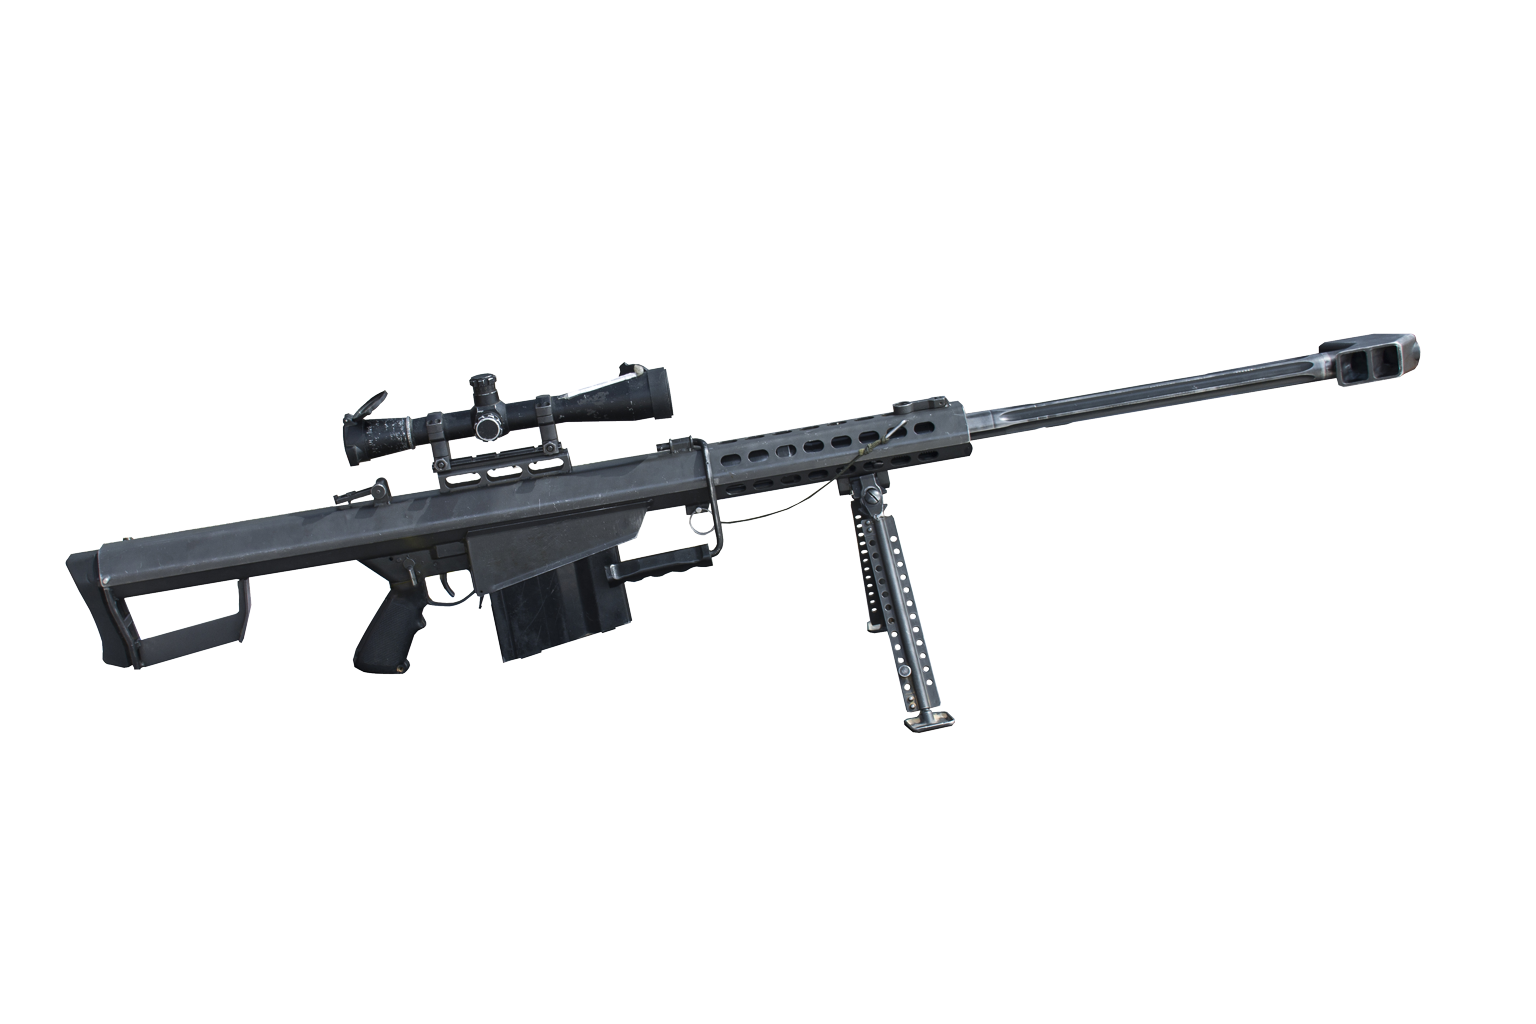
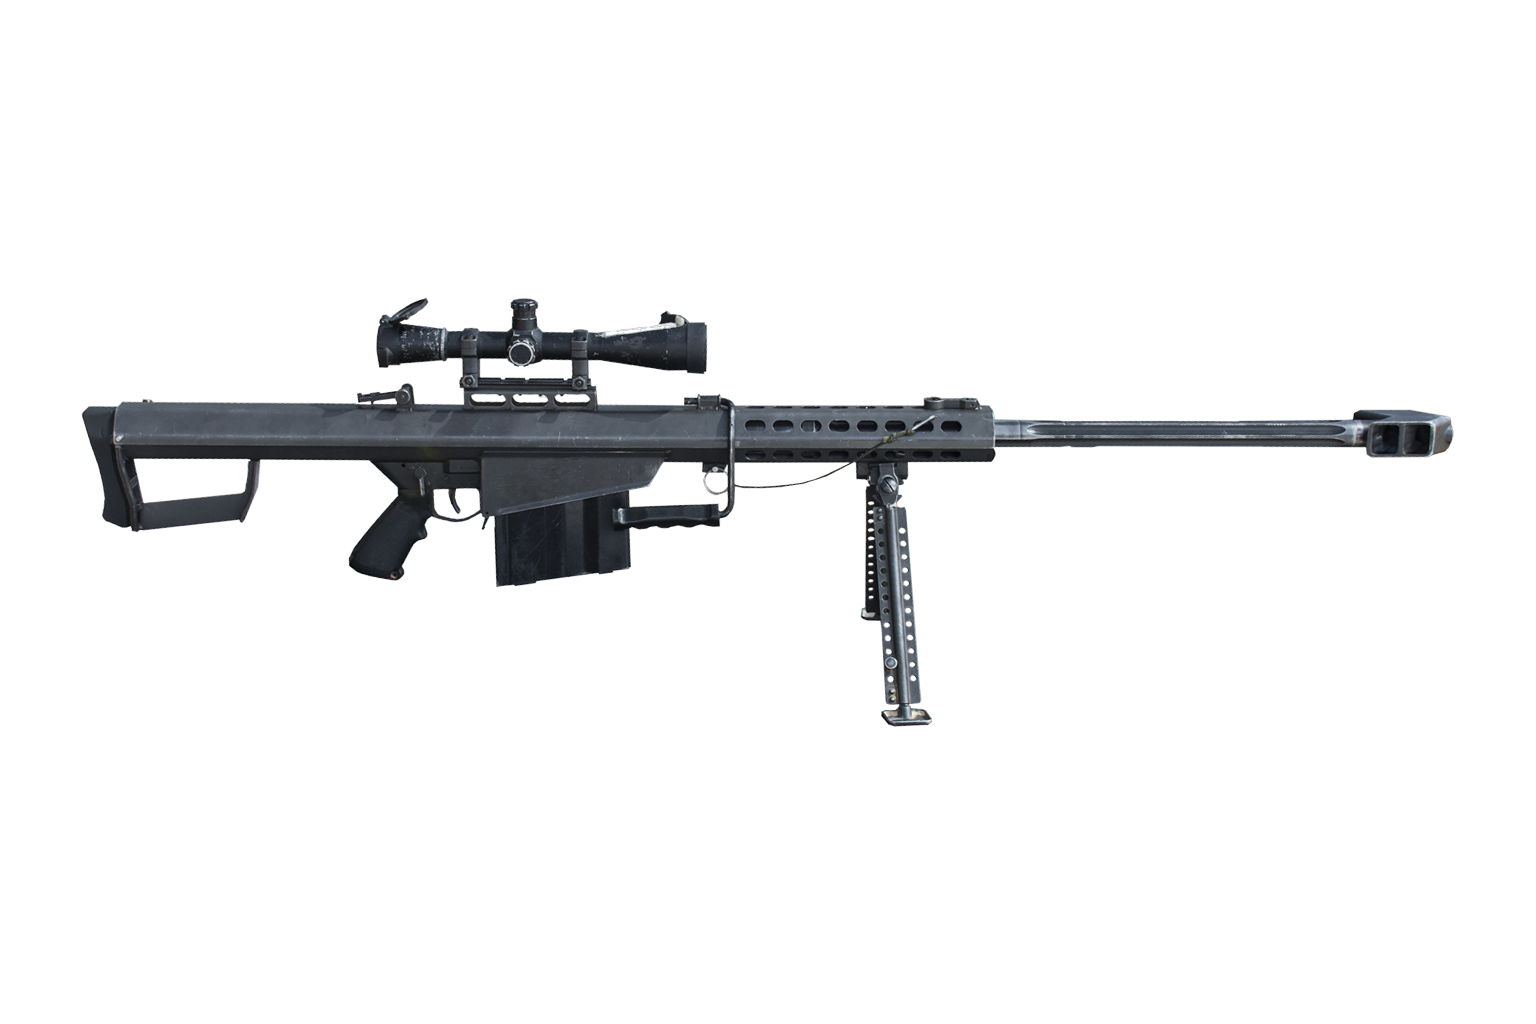
Fit the Vyrr, police and Major Navarro art; credit free-licensed gun photos
- Cloaked hunters stay faintly visible: the cloak photo is already see-through
- M82A1 side photo levelled so it sits flat in the Arsenal and in hand
- Arsenal shows photo credits for the two free-licensed gun photos
- City page keeps the Major's cut-out inside its header

Changed region(s): [[0.0312, 0.2812, 0.9688, 0.7188]]

diff --git a/src/ui/menus.js b/src/ui/menus.js
@@ -10,7 +10,7 @@ import { SPECIES } from '../data/species.js';
 import * as store from '../engine/storage.js';
 import * as audio from '../engine/audio.js';
 import { thumbnail } from '../game/render-scene.js';
-import { weaponProfilePath, cityArt, storyArt, MAJOR as MAJOR_PIX, CITY_SELECT_ART } from '../data/art.js';
+import { weaponProfilePath, cityArt, storyArt, MAJOR as MAJOR_PIX, CITY_SELECT_ART, PHOTO_CREDITS } from '../data/art.js';
 import { CITIES, CITY_LEVELS, CITY_BY_ID, cityLevels, MAJOR } from '../data/cities.js';
 
 function h(tag, attrs = {}, ...kids) {
@@ -280,7 +280,7 @@ export class UI {
     const { lv, done, stars: st } = cityProgress(cityId);
     const next = lv.find((l) => !store.progressOf(l.id).passed && sceneOpen(l));
     const seen = Object.keys(store.uiState()).some((k) => k.startsWith(`story:${cityId}:`));
-    const head = h('div', { class: 'city-head', style: { backgroundImage: [`linear-gradient(90deg, rgba(0,0,0,0.78), rgba(0,0,0,0.15))`, art(cityArt(cityId, 'panorama.jpg'), thumbnail(lv[0].biome, lv[0].tod))].join(', ') } },
+    const head = h('div', { class: 'city-head with-major', style: { backgroundImage: [`linear-gradient(90deg, rgba(0,0,0,0.78), rgba(0,0,0,0.15))`, art(cityArt(cityId, 'panorama.jpg'), thumbnail(lv[0].biome, lv[0].tod))].join(', ') } },
       h('div', {},
         h('h3', {}, `${c.name} · ${c.district}`),
         h('p', { class: 'lead' }, c.tagline),
@@ -289,8 +289,8 @@ export class UI {
           next ? h('button', { class: 'primary', onclick: () => { click(); this.briefing(next, 'city'); } }, done ? `Continue · Scene ${next.n}` : 'Start the city') : null,
           seen ? h('button', { onclick: () => { click(); this.story(cityId, 'all', () => this.city(cityId)); } }, 'Story so far') : null)),
       h('div', { class: 'city-side' },
-        h('img', { class: 'major-cut', src: `assets/${MAJOR_PIX.standing}`, alt: '', onerror: (e) => e.target.remove() }),
-        h('div', { class: 'chapter-progress' }, bar(done, 12, `${done} / 12 scenes`), bar(st, 36, `${st} / 36 ★`))));
+        h('div', { class: 'chapter-progress' }, bar(done, 12, `${done} / 12 scenes`), bar(st, 36, `${st} / 36 ★`))),
+      h('img', { class: 'major-cut', src: `assets/${MAJOR_PIX.standing}`, alt: '', onerror: (e) => { e.target.parentNode.classList.remove('with-major'); e.target.remove(); } }));
     const grid = h('div', { class: 'grid levels' });
     for (const L of lv) {
       const open = sceneOpen(L);
@@ -475,7 +475,8 @@ export class UI {
           h('small', {}, `${w.caliber} · ${w.action} · ${w.mag} rounds`),
           h('small', {}, `${opticLabel(w)} · ${w.vel} m/s${w.pellets ? ` · ${w.pellets} pellets · ${w.range} m` : ''}`),
           bars(w),
-          h('em', {}, open ? (w.cls === 'military' ? 'Unlocked · also issued in Military Ops' : 'Unlocked') : `Unlocks at level ${w.unlock} · Chapter ${Math.ceil(w.unlock / 10)}`)));
+          h('em', {}, open ? (w.cls === 'military' ? 'Unlocked · also issued in Military Ops' : 'Unlocked') : `Unlocks at level ${w.unlock} · Chapter ${Math.ceil(w.unlock / 10)}`),
+          PHOTO_CREDITS[w.id] ? h('a', { class: 'credit', href: PHOTO_CREDITS[w.id].url, target: '_blank', rel: 'noopener' }, `Photo: ${PHOTO_CREDITS[w.id].by} · ${PHOTO_CREDITS[w.id].license}`) : null));
       }
       wrap.append(h('h3', { class: 'cat' }, label), grid);
     }

diff --git a/styles/main.css b/styles/main.css
@@ -289,6 +289,10 @@ table.keys { width: 100%; border-collapse: collapse; font-size: 14px; }
 .res-portrait { float: right; width: 120px; height: 120px; object-fit: cover; border-radius: 10px; margin: -6px -10px 6px 12px; border: 1px solid var(--line); }
 @media (max-width: 1100px) { .grid.cities { grid-template-columns: repeat(3, 1fr); } .dossier, .city-head { grid-template-columns: 1fr; } }
 .city-side { position: relative; display: flex; flex-direction: column; justify-content: flex-end; align-self: stretch; }
-.major-cut { position: absolute; right: 0; bottom: 70px; height: 260px; object-fit: contain; filter: drop-shadow(0 6px 14px rgba(0, 0, 0, 0.7)); pointer-events: none; }
+.city-head { position: relative; overflow: hidden; }
+.city-head.with-major { padding-right: 190px; }
+.major-cut { position: absolute; right: 18px; bottom: 0; height: 94%; max-height: 300px; object-fit: contain; object-position: bottom; filter: drop-shadow(0 6px 14px rgba(0, 0, 0, 0.7)); pointer-events: none; }
 .brief-major { width: 100%; aspect-ratio: 16 / 6; object-fit: cover; border-radius: 10px; margin: 10px 0 0; border: 1px solid var(--line); }
 #ui { background-size: cover; background-position: center; }
+.gun-card .credit { display: block; margin-top: 6px; font-size: 11px; color: var(--muted, #9aa3ad); text-decoration: none; }
+.gun-card .credit:hover { text-decoration: underline; }

diff --git a/src/data/art.js b/src/data/art.js
@@ -116,3 +116,10 @@ export function cityArtManifest() {
   groups['City: select screen'] = [CITY_SELECT_ART];
   return groups;
 }
+
+// Free-licensed photos used for some gun profiles (full credits in
+// assets/weapons/CREDITS.txt); shown under the gun in the Arsenal.
+export const PHOTO_CREDITS = {
+  win70: { by: 'Michael E. Cumpston, touch-up by Francis Flinch', license: 'CC BY-SA 3.0', url: 'https://commons.wikimedia.org/wiki/File:Super2012b.jpg' },
+  m82: { by: 'Zachi Evenor and MathKnight', license: 'CC BY-SA 4.0', url: 'https://commons.wikimedia.org/wiki/File:Barrett-M82A1-Independence-Day-2017-IZE-048-white.jpg' },
+};

diff --git a/src/game/entities.js b/src/game/entities.js
@@ -396,7 +396,7 @@ const UPDATE = {
         e.x = e.x0 + (e.x1 - e.x0) * p; e.d = e.d0 + (e.d1 - e.d0) * p; e.alt = e.a0 + (e.a1 - e.a0) * p;
         e.facing = e.x1 >= e.x0 ? 1 : -1;
         e.phase += dt * 4 * (sp.walk || 2);
-        if (sp.cloaks) e.alpha += (0.1 - e.alpha) * Math.min(1, dt * 6);
+        if (sp.cloaks) e.alpha += (0.4 - e.alpha) * Math.min(1, dt * 6); // the cloak photo is already see-through
         if (p >= 1) { e.mode = 'perch'; e.timer = rand(2.4, 4.2) / (S.diff || 1); }
         break;
       }

diff --git a/assets/README.md b/assets/README.md
@@ -1,6 +1,6 @@
 # assets/
 
-Art for the game. Everything here is optional: any file that is missing is replaced by a drawn stand-in, so the game always runs. Prompts for every file are in [`docs/ART-PROMPTS.md`](../docs/ART-PROMPTS.md) and, for City Hunt, [`docs/CITY-ART-PROMPTS.md`](../docs/CITY-ART-PROMPTS.md).
+Art for the game. Everything here is optional: any file that is missing is replaced by a drawn stand-in, so the game always runs. Some gun profiles are free-licensed photos; their credits are in [`weapons/CREDITS.txt`](weapons/CREDITS.txt) and in the Arsenal. Prompts for every file are in [`docs/ART-PROMPTS.md`](../docs/ART-PROMPTS.md) and, for City Hunt, [`docs/CITY-ART-PROMPTS.md`](../docs/CITY-ART-PROMPTS.md).
 
 ```
 assets/
